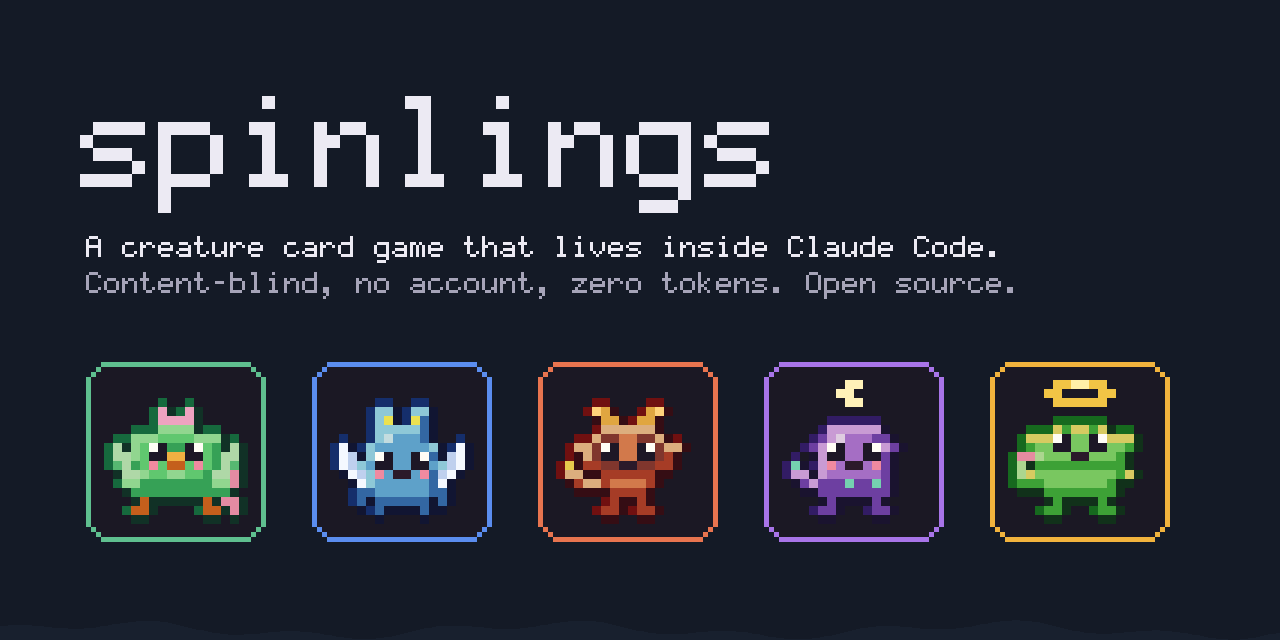
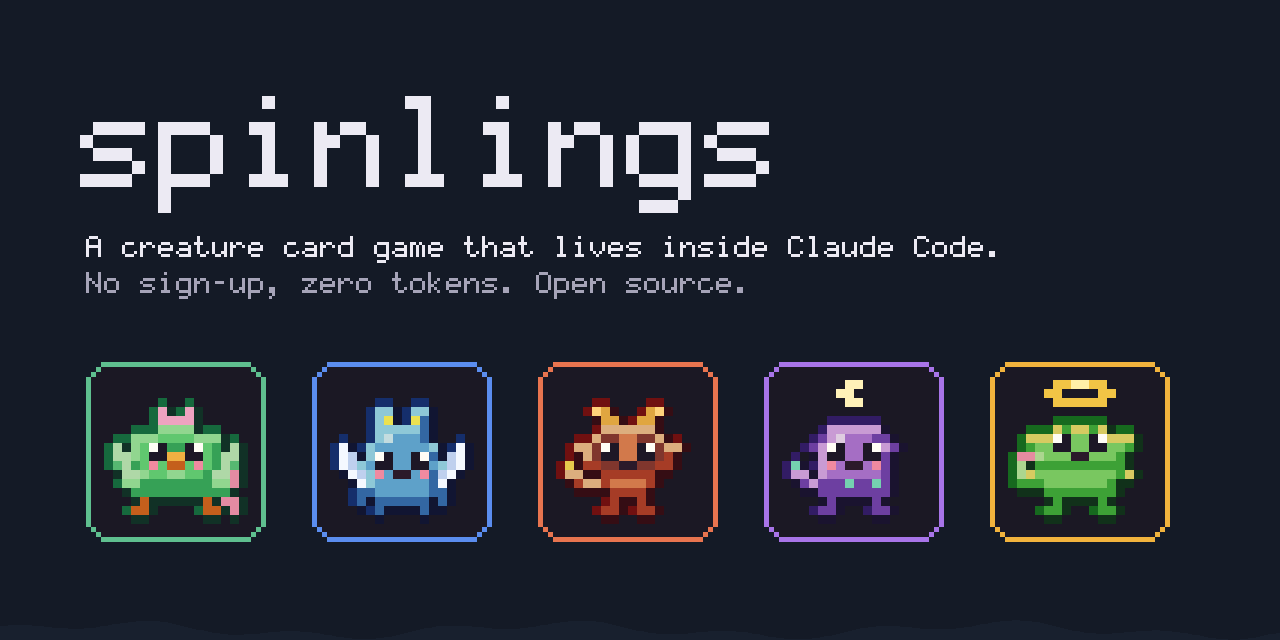
Launch polish: plainer README, truthful page and script claims
- README: no defensive hero line, "No sign-up" instead of "No account", the
  pre-install check clones the v0.1.0 tag, an anti-spam puzzle instead of
  "proof of work", accurate reward and rate-limit wording, and the page
  security bullet now says what the site's first-party scripts can do.
- SECURITY and PRIVACY describe the three page policies as they are, and
  PRIVACY mentions Cloudflare's Network Error Logging headers.
- The site footer says it is not affiliated with Anthropic; /odds says
  "an epic".
- Launch drafts moved out of the repository.
- Dependabot ignores Node majors for the image; 0.1.0 is dated.

Changed region(s): [[0.1875, 0.4062, 0.5938, 0.4688], [0.625, 0.4062, 0.7812, 0.4688], [0.0625, 0.4375, 0.1562, 0.4688]]

diff --git a/scripts/media/stills.ts b/scripts/media/stills.ts
@@ -218,7 +218,7 @@ function foilHue(t: number): number {
 /** Product Hunt 4: the season, and what the game never reads. */
 function season(W: number, H: number): Canvas {
   const c = frame(W, H)
-  heading(c, W, '36 new species every 28 days', 'It reads the rhythm of your session, never its content. No account, no telemetry, zero tokens.')
+  heading(c, W, '36 new species every 28 days', 'It plays off the rhythm of your session. No sign-up, no telemetry, zero tokens.')
   const s = 4, cell = 16 * s + 34, rowH = 16 * s + 36
   const x0 = Math.round((W - 9 * cell + 34) / 2)
   FAMILIES.forEach((f, row) => {
@@ -278,7 +278,7 @@ function social(W: number, H: number): Canvas {
   const c = frame(W, H)
   wordmark(c, 80, 96, 13)
   text(c, 86, 236, 'A creature card game that lives inside Claude Code.', TEXT, 3)
-  text(c, 86, 272, 'Content-blind, no account, zero tokens. Open source.', SOFT, 3)
+  text(c, 86, 272, 'No sign-up, zero tokens. Open source.', SOFT, 3)
   const picks: [Family, number][] = [['haiku', 0], ['sonnet', 1], ['opus', 0], ['fable', 3], ['haiku', 8]]
   picks.forEach(([f, i], k) => {
     const sp = familySpecies(1, f)[i]!

diff --git a/server/src/pages-html.ts b/server/src/pages-html.ts
@@ -470,7 +470,7 @@ ${raw(footTopSvg().replace('class="edge foottop"', 'class="edge foottop"'))}
 <button class="napper js-only" type="button" aria-label="A napping regular. Wake it.">${raw(napper())}<span class="zzz" aria-hidden="true">${raw(wordSvg('z', 'pw'))}</span></button>
 ${!scripted ? html`<span class="napper" aria-hidden="true">${raw(napper())}</span>` : ''}
 <div class="in wrap">
-<p>A creature card game for Claude Code. Free and open source.</p>
+<p>A creature card game for Claude Code. Free and open source. Not affiliated with Anthropic.</p>
 <p>Season ${season}, day ${day}.</p>
 <nav aria-label="More"><a href="/odds">Odds</a><a href="/privacy">Privacy</a><a href="${REPO}">Source code</a><a href="${REPO}/issues">Report a problem</a><a href="${REPO}/blob/main/SECURITY.md">Report a security issue</a><a href="${REPO}/blob/main/docs/self-hosting.md">Run your own server</a></nav>
 ${scripted ? html`<button class="tbtn keys js-only" type="button" aria-pressed="true" data-keys>Key shortcuts</button>` : ''}

diff --git a/server/src/pages-info.ts b/server/src/pages-info.ts
@@ -128,8 +128,8 @@ ${table(['Gene or trait', 'Range'], [
 ${table(['Action', 'Sparks'], [
     ['Fuse two cards', `${E.fusion.cost} (${E.fusion.fairCost} on Fusion Fair)`],
     ['Buy a pack', E.packs.buyCost],
-    ...(['common', 'rare', 'epic', 'legendary'] as const).map(r => [`Craft a ${r} of this season`, E.craft[r]] as const),
-    ...(['common', 'rare', 'epic', 'legendary'] as const).map(r => [`Recycle a ${r}`, `${E.recycle[r]}`] as const),
+    ...(['common', 'rare', 'epic', 'legendary'] as const).map(r => [`Craft ${r === 'epic' ? 'an' : 'a'} ${r} of this season`, E.craft[r]] as const),
+    ...(['common', 'rare', 'epic', 'legendary'] as const).map(r => [`Recycle ${r === 'epic' ? 'an' : 'a'} ${r}`, `${E.recycle[r]}`] as const),
   ])}
 <p>A fusion takes the higher parent's rarity, with a ${pct(E.fusion.tierUp)} chance of one tier up (never into legendary). Recycling pays ${E.recycleShiny}x for shiny, ${E.recycleFoil}x for foil and ${E.recycleMythic}x again for a Mythic.</p>
 

diff --git a/README.md b/README.md
@@ -6,12 +6,10 @@
 
 Spinlings is a creature card game that lives inside Claude Code. While Claude works, wild creatures rustle into a slim band above the prompt and your team of three battles them. Win, and you might catch one. Every card is one of a kind, with its own look, genes and traits. You can fuse two cards into a hybrid nobody has seen before, and trade or gift cards with other players.
 
-Spinlings never knows what you are working on. It reads only the shape of the session (which model, whether Claude is busy). It never reads your files, prompts or output, and it costs zero tokens.
+It plays off the rhythm of your session, which model is running and whether Claude is busy, and costs zero tokens. The full list of what it hooks is [below](#what-spinlings-cant-read).
 
 The world lives at [spinlings.dev](https://spinlings.dev), or entirely on your machine if you play offline.
 
-<!-- Hero: rendered from the mod's own views by `node scripts/media/build.ts`. Once the real capture from the
-     desktop app exists (docs/launch.md, shot 1), swap the srcset/src for docs/media/hero.gif. -->
 <p align="center">
   <picture>
     <source media="(prefers-color-scheme: dark)" srcset="docs/media/encounter-dark.svg">
@@ -19,11 +17,11 @@ The world lives at [spinlings.dev](https://spinlings.dev), or entirely on your m
   </picture>
 </p>
 
-- **No account.** The server gives you a random handle like `soft-otter-42`. It has nothing to do with your Claude account, email, organization or machine. There is no signup, no email, no password and no GitHub login. An optional passkey brings your collection to another computer.
+- **No sign-up.** The server hands you a random handle like `soft-otter-42`, unrelated to your Claude account, email, organization or machine. No email, no password, no GitHub login. An optional passkey brings your collection to another computer.
 - **No telemetry.** No analytics and no third-party requests. The mod talks to one server, and you can run your own.
 - **Stays out of Claude's way.** It makes no model calls, adds nothing to Claude's context, and never blocks or slows Claude.
 - **Playable alone.** Generated Rivals and a Wandering Trader fill in whenever no other player is around, so the game works on day one.
-- **No money.** No purchases, no paid currency and no crypto. Cards have no cash value.
+- **Free.** Nothing to buy, and cards have no cash value.
 - **Open source** (MIT), mod and server, with zero npm runtime dependencies.
 
 ## Install
@@ -46,11 +44,11 @@ Spinlings is a Claude Code mod, so it needs Claude Code 2.1.287 or later (`claud
 Mods run with your permissions, so look before you install. This prints every hook the mod registers and every call it makes:
 
 ```sh
-git clone https://github.com/416rehman/spinlings
+git clone --branch v0.1.0 https://github.com/416rehman/spinlings
 claude plugin validate spinlings/plugin
 ```
 
-**First run.** There is nothing to type. Instead of a signup, the mod solves a small proof of work and joins [spinlings.dev](https://spinlings.dev) on its own. You get a starter team of three, two welcome packs and 100 sparks. The band says it once: `✦ A Spinling hatched!`, with `[1] Open your welcome pack`. Then creatures find you while Claude works, and `/spin` opens your collection whenever you like.
+**First run.** There is nothing to type. Instead of a sign-up, the mod solves a quick anti-spam puzzle and joins [spinlings.dev](https://spinlings.dev) on its own. You get a starter team of three, two welcome packs and 100 sparks. The band says it once: `✦ A Spinling hatched!`, with `[1] Open your welcome pack`. Then creatures find you while Claude works, and `/spin` opens your collection whenever you like.
 
 **Online or offline.** You start in the online world: anonymous, with no sign-up and nothing personal. To play entirely offline, where nothing ever leaves your machine, set the **World** option to `offline` before your first session (`/plugin configure spinlings@spinlings`, or add `--config world=offline` to the shell install), or run `/spin world offline` at any time. Each world keeps its own collection, and switching never deletes anything. If the mod cannot reach the server on the first run, it starts you offline.
 
@@ -85,7 +83,7 @@ claude plugin validate spinlings/plugin
   </picture>
 </p>
 
-These are drawn by the mod's own code (`node scripts/media/build.ts`); only the window around them is a drawing.
+These are rendered by the mod's own view code from real game states (`node scripts/media/build.ts`), not screen recordings; only the app window around them is drawn.
 
 ## How it plays
 
@@ -127,7 +125,7 @@ About 1 wild encounter in 40 is led by a **Mythic**: a creature generated on the
 | Trading, gifts, claims | No |
 | Duels (`/spin battle`, revenge) | No. Duels start at least 2 minutes apart. |
 
-Hitting a rate limit earns nothing and costs nothing. The status line just says `Claude is resting until 3:40 PM · your team is napping too`. After 4 or more hours without a battle, the first wild encounter when you come back is guaranteed rare or better, so breaks are rewarded and heavy use is not.
+Hitting a rate limit is neither rewarded nor punished: packs keep charging as usual. The status line just says `Claude is resting until 3:40 PM · your team is napping too`. After 4 or more hours without a battle, the first wild encounter when you come back is guaranteed rare or better, so breaks are rewarded and heavy use is not.
 
 ### When nobody else is around
 
@@ -204,7 +202,7 @@ Some of those events carry content the mod does not need. It never reads these f
 
 **It costs zero tokens.** No model calls, nothing added to Claude's context, and no tools Claude can call. Every `/spin` command returns an empty result, and anything it prints goes to a dim log line the model never reads.
 
-**It never rewards usage.** Nothing scales with tokens, turns, tool calls, prompts, cost or context. Every battle pays the same, and the server spaces battles out. Packs charge from time with Claude Code open, idle time included. Burning through your plan earns nothing.
+**It never rewards usage.** Nothing scales with tokens, turns, tool calls, prompts, cost or context. Battle rewards are fixed amounts per result, never scaled by tokens, turns or time, and the server spaces battles out. Packs charge from time with Claude Code open, idle time included. Burning through your plan earns nothing.
 
 ## Privacy
 
@@ -304,14 +302,14 @@ spinlings/
     migrations/                     SQL migrations for D1 and Node
   test/                             node:test suites: core, client, server, end to end, docs and release
   scripts/                          the two-player end-to-end run, the drop tool, media and chimes
-  docs/                             how to play, self-hosting, releasing and launch
+  docs/                             how to play, self-hosting and releasing
   Dockerfile                        the Node server as a non-root container
 ```
 
 - **The server decides everything scarce:** rolls, card DNA, ownership, battle results, sparks, ratings and trades. The mod only animates. It sends just the rounds on which you pressed 1, and the server replays the battle from its seed.
 - **Every state change is atomic.** The server is one stateless Worker over D1, which has no interactive transactions. Each handler reads what it needs, decides in plain code, then writes one batch. The batch starts with guards that re-check everything it read: row versions, owners, escrow and locks. If any guard fails, D1 rolls back the whole batch and the handler starts over, up to 3 times, then answers `409 conflict`. On Node the same batches run inside `BEGIN IMMEDIATE`.
 - **Server data is untrusted on the client.** Every response is checked against its expected shape, every string is stripped of control characters and escape sequences and cut to length, and responses over 256 KB are rejected.
-- **Pages run no scripts,** except the two passkey pages, which load one small first-party script. Card, profile and gift pages are plain server-rendered HTML, with every value escaped and a strict Content-Security-Policy.
+- **Pages load only first-party scripts.** The landing, card, profile, gift and drop pages load two small scripts from the same origin for the art and interactions, under a Content-Security-Policy with `connect-src 'none'`, so those scripts cannot send any request. `/odds` and `/privacy` run none, and the two passkey pages load only `/static/passkey.js`. Every value is escaped.
 - **Supply chain.** There are no runtime npm dependencies anywhere; SHA-256 and the PNG encoder are written here. The only dev dependency is `wrangler`, pinned exactly, with a committed lockfile installed by `npm ci --ignore-scripts`. CI actions are pinned by commit SHA and run with read-only permissions, and every pull request runs the strict `claude plugin validate` and the mod's own tests too. The marketplace installs a tagged release pinned to its commit, not `main`.
 
 More in [SPEC.md](SPEC.md), sections 11, 12, 15, 16 and 20.

diff --git a/SECURITY.md b/SECURITY.md
@@ -22,7 +22,7 @@ Clearly in scope:
 - **The mod.** Anything that lets a server, another player or a crafted response run code, read local data, draw terminal escape sequences, make the mod contact a host other than the configured server, or leak the token. Anything that breaks the content-blind guarantee in the README.
 - **The server.** Bypassing auth; acting on someone else's cards; minting or duplicating cards or sparks; races around escrow, trades, gifts or one-shot actions that a guard should have caught; getting past the pacing (the spacing between battle starts, the minimum battle length, the spacing between pack charges and the 12-pack bank), the pair limits, the trading trust gate or the proof of work; SQL injection; anything that leaks tokens, token hashes, join counters or `SECRET`.
 - **Cheating beyond the documented limits.** The README's "Cheating" section lists what a modified client can and cannot do. Anything better than that is a bug.
-- **The pages.** Script injection, or anything that defeats their Content-Security-Policy, including a way to run anything on the two passkey pages beyond their one first-party script.
+- **The pages.** Script injection, or anything that defeats their Content-Security-Policy, including a way to run any script other than the page's own files under `/static/`, or to make the site's scripts send a request.
 - **The supply chain.** The CI and deploy workflows, the release process, dependency pinning and the marketplace entry.
 
 Out of scope: volumetric denial of service, social engineering, problems in Cloudflare or Claude Code themselves (report those to them), attacks that need an already compromised machine, the documented limits in the README's "Cheating" section, and game balance (open a normal issue for that).
@@ -44,12 +44,12 @@ The full requirements are in [SPEC.md](SPEC.md), sections 12, 15, 16 and 20. In 
 - **The server decides everything scarce.** Every input is checked by a strict schema: unknown fields are rejected, and bodies over 16 KB are refused. SQL uses bound parameters only. Tokens are 32 random bytes stored as SHA-256 hashes.
 - **Atomic by guards.** Every handler writes one D1 batch that first re-checks, with guard statements, everything it read: row versions, owners, escrow, locks and one-shot states. A failed guard rolls back the whole batch. One-shot actions (opening a pack, finishing a battle, catching, accepting an offer, claiming a gift) cannot be replayed.
 - **Minimal storage.** No IP addresses (only a daily keyed hash, kept at most 24 hours), no request logs, dates instead of times wherever a rule allows, and scheduled deletion of old battles, notices, offers and gifts, and of accounts nobody can sign in to any more.
-- **Pages run no scripts,** except the two passkey pages (`/passkey/add` and `/passkey/signin`), which load one first-party file, `/static/passkey.js`. Every other page sends `Content-Security-Policy: default-src 'none'; img-src 'self' data:; style-src 'unsafe-inline'; base-uri 'none'; form-action 'none'; frame-ancestors 'none'`. The passkey pages add only `script-src 'self'; connect-src 'self'` to that. Every response also sends `nosniff`, `no-referrer` and `X-Frame-Options: DENY`. API responses send no CORS headers.
+- **Pages load only first-party scripts.** `/odds`, `/privacy` and the not-found page run none and send `Content-Security-Policy: default-src 'none'; img-src 'self' data:; style-src 'unsafe-inline'; base-uri 'none'; form-action 'none'; frame-ancestors 'none'`. The landing, card, profile, gift and drop pages add only `script-src 'self'` for two files of their own under `/static/`, and keep `connect-src 'none'`, so those scripts cannot send any request. The two passkey pages (`/passkey/add` and `/passkey/signin`) add `script-src 'self'; connect-src 'self'` for `/static/passkey.js`. Every response also sends `nosniff`, `no-referrer` and `X-Frame-Options: DENY`. API responses send no CORS headers.
 - **Supply chain.** Zero runtime npm dependencies. The only dev dependency, `wrangler`, is pinned exactly with a committed lockfile and installed with `npm ci --ignore-scripts` (the repository's `.npmrc` turns install scripts off for everyone else too). GitHub Actions are pinned by full commit SHA and run with read-only permissions. Every pull request runs the tests, the strict `claude plugin validate` and the mod's own tests on one pinned, hash-checked Claude Code build, and fails if any test is skipped. Pull requests get no secrets. Deploys run only from release tags on `main`: the checks run first with no secrets, and only then does a reviewer approve the job that holds them.
 
 ## Verifying a release
 
-The marketplace entry in `.claude-plugin/marketplace.json` installs a tagged release (`ref`), never `main`. Once a release is out, the entry also pins that tag's exact commit (`sha`), so moving or recreating a tag changes nothing anyone installs, and CI fails if a released tag is not pinned to its commit. Until the first release (v0.1.0) is tagged, the entry names that upcoming tag and has no `sha` yet. Each release note links the diff from the previous release and includes the `claude plugin validate` output, which lists every hook and every call the mod makes. To check it yourself:
+The marketplace entry in `.claude-plugin/marketplace.json` installs a tagged release (`ref`), never `main`. Once a release is out, the entry also pins that tag's exact commit (`sha`), so moving or recreating a tag changes nothing anyone installs, and CI fails if a released tag is not pinned to its commit. Each release note links the diff from the previous release and includes the `claude plugin validate` output, which lists every hook and every call the mod makes. To check it yourself:
 
 ```sh
 git clone https://github.com/416rehman/spinlings && cd spinlings

diff --git a/PRIVACY.md b/PRIVACY.md
@@ -109,7 +109,7 @@ The server keeps a date instead of a time wherever a game rule allows. It keeps 
 
 **No request logging.** Cloudflare Workers observability and Logpush stay off. The server logs only error codes, never URLs, request bodies, tokens, handles or IP addresses.
 
-**The hosting provider.** The default server runs on Cloudflare Workers with a D1 database, so Cloudflare carries its traffic and stores its database as the hosting provider, under Cloudflare's own privacy policy. If you would rather not rely on that, the server is open source and you can run your own (see [docs/self-hosting.md](docs/self-hosting.md)).
+**The hosting provider.** The default server runs on Cloudflare Workers with a D1 database, so Cloudflare carries its traffic and stores its database as the hosting provider, under Cloudflare's own privacy policy. Cloudflare also adds Network Error Logging headers to the website, so a visitor's browser may report failed page loads to Cloudflare. If you would rather not rely on that, the server is open source and you can run your own (see [docs/self-hosting.md](docs/self-hosting.md)).
 
 ## What other players can see
 
@@ -129,7 +129,7 @@ Cards other players see show the creature, its level, stats and traits, and noth
 - **First discoveries:** the first card of a species anyone in the world obtains in a season carries a `First Discovered` stamp wherever that card is shown. The game never says who found it.
 - **Mythics:** if you catch a Mythic, its card says "Discovered by" your handle, and the public "Mythics found" list shows your handle and the Mythic's name, nothing else. If you reroll your handle or delete your account, your handle comes off the card and the list.
 
-**Public pages** (profiles, card pages at `{server}/c/{id}` and gift pages) show only what a profile shows, plus Mythic discoveries as handle and name. They run no scripts and load nothing from other sites. The only pages with a script are the two passkey pages, which load one small file from the same server and nothing else.
+**Public pages** (profiles, card pages at `{server}/c/{id}` and gift pages) show only what a profile shows, plus Mythic discoveries as handle and name. They load nothing from other sites. Their only scripts are the server's own files under `/static/`, and the page policy (`connect-src 'none'`) stops those scripts from sending anything. The passkey pages run one script that talks only to the same server.
 
 `/spin share` only copies text to your clipboard. Nothing is posted anywhere unless you paste it yourself.
 

diff --git a/SPEC.md b/SPEC.md
@@ -1072,7 +1072,7 @@ The seam's blocklist (`isBlocked`) has the last word: a blocked species or fusio
 - No player-visible counters of battles, catches, packs or trades per day, and no "come back tomorrow" walls.
 - The only waiting a player can meet is the natural spacing between wild encounters, which the client never asks to break, and a full pack bank, which says "Open some packs to make room".
 
-## 25. Drops: promo codes for launch and virality
+## 25. Drops: promo codes
 
 **Idea:** a drop gives everyone the **same limited creature**, which hatches with **personal DNA**, so every redeemer's copy looks different. That creates a "show me yours" moment on X.
 
@@ -1220,7 +1220,7 @@ GitHub sign-in was withdrawn (section 30): the game never asks who you are, and 
 - A session that goes unused for 180 days expires, and that machine joins anew or signs in with its passkey.
 - UI copy: `Signed in on 2 devices · Reset access`. Players never see the token itself.
 
-## 30. Least-suspicious auth: anonymous by default, optional passkey
+## 30. Auth: anonymous by default, optional passkey
 
 **Principle:** the game never asks who you are. There is no GitHub, no email, no password and no code to remember.
 

diff --git a/CHANGELOG.md b/CHANGELOG.md
@@ -2,7 +2,7 @@
 
 One entry per release (SPEC 32), newest first. Each says what changed in plain words, any compatibility impact, and any change to what the mod sends, what the server stores or what other players can see. The mod and the server share one version; the server is deployed first.
 
-## 0.1.0 (unreleased)
+## 0.1.0 (2026-10-03)
 
 The first release: Spinlings season 1, the mod and the server, live at [spinlings.dev](https://spinlings.dev).
 
